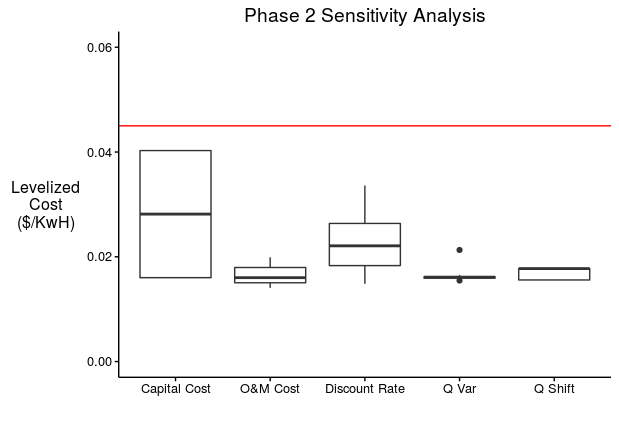
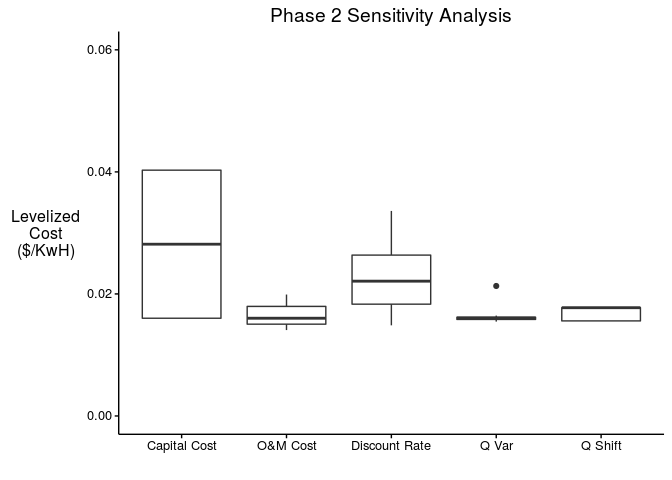
proofread and revise phase 2

diff --git a/phases/phase2/phase2.md b/phases/phase2/phase2.md
@@ -439,8 +439,7 @@ outline for your own work.
        theme_classic() +
        theme(axis.title.y = element_text(angle = 0),
              axis.line.x = element_line(colour = 'black', linetype = 'solid'),
-             axis.line.y = element_line(colour = 'black', linetype = 'solid')) +
-       geom_hline(yintercept=price, colour = "red")
+             axis.line.y = element_line(colour = 'black', linetype = 'solid'))
     plot
 
 ![](phase2_files/figure-markdown_strict/appendix-code-1.png)
